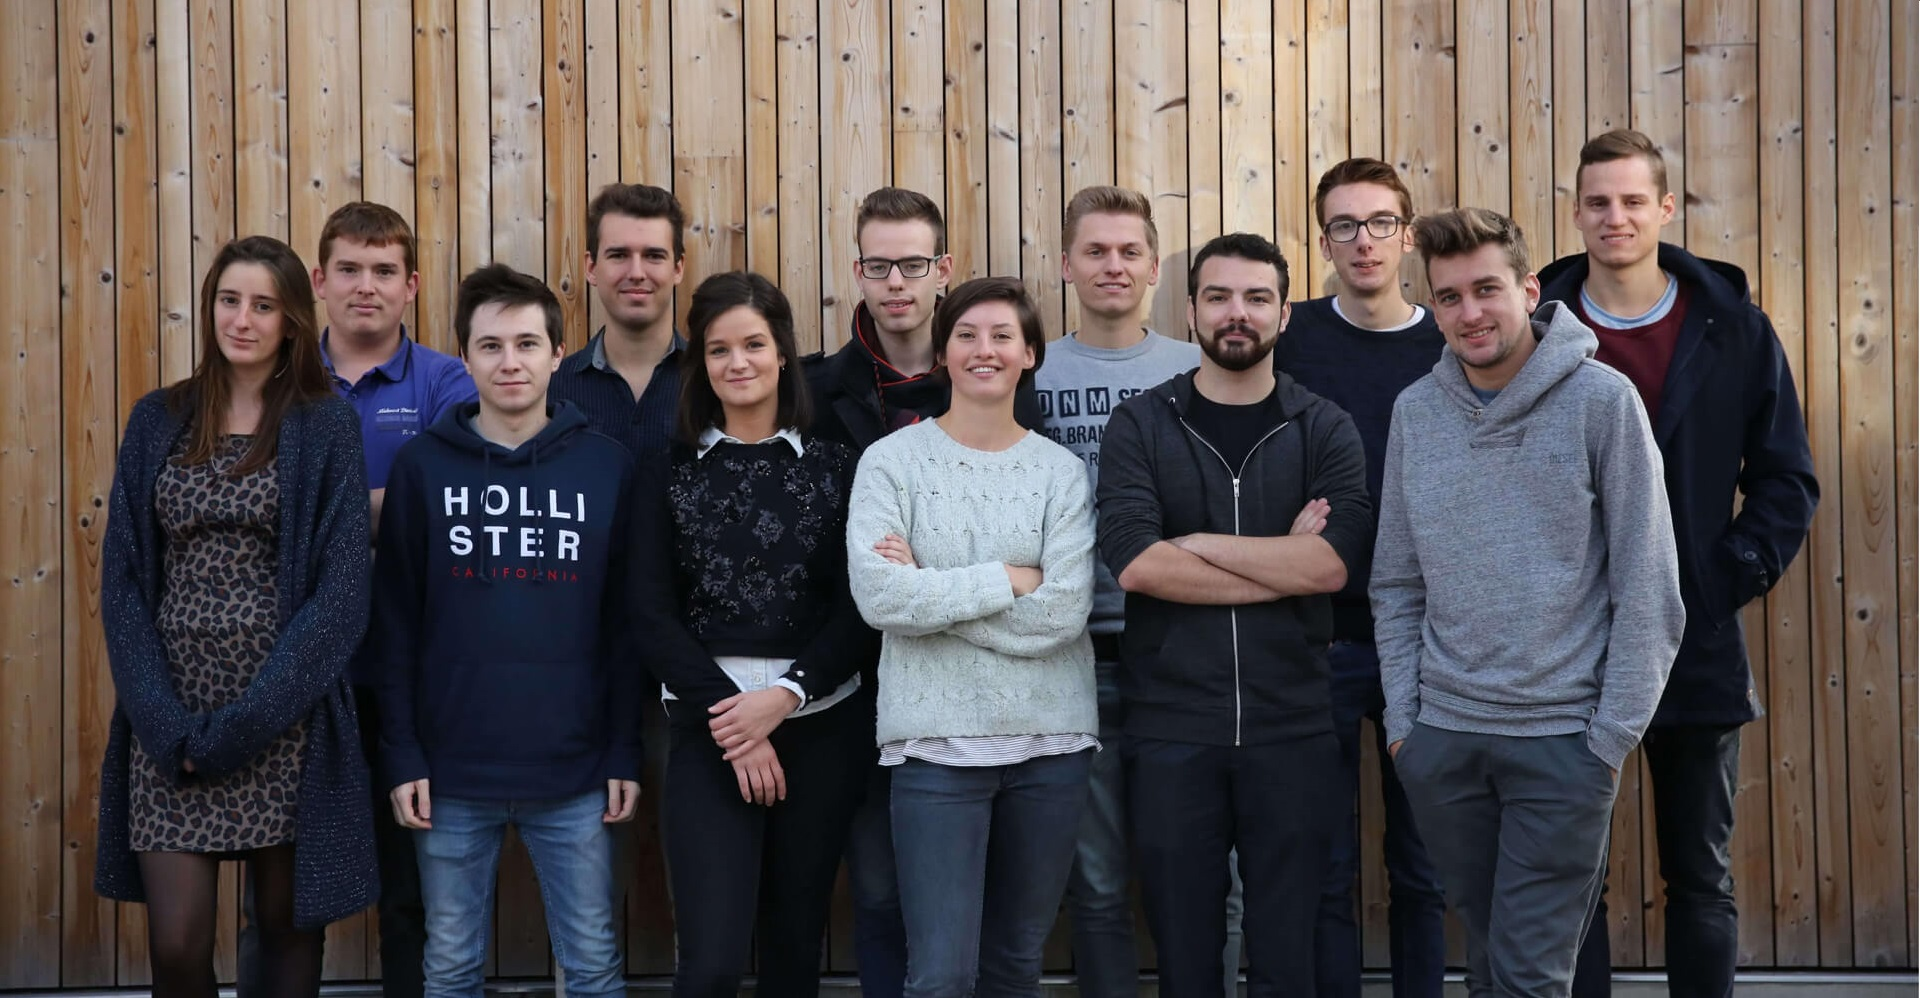
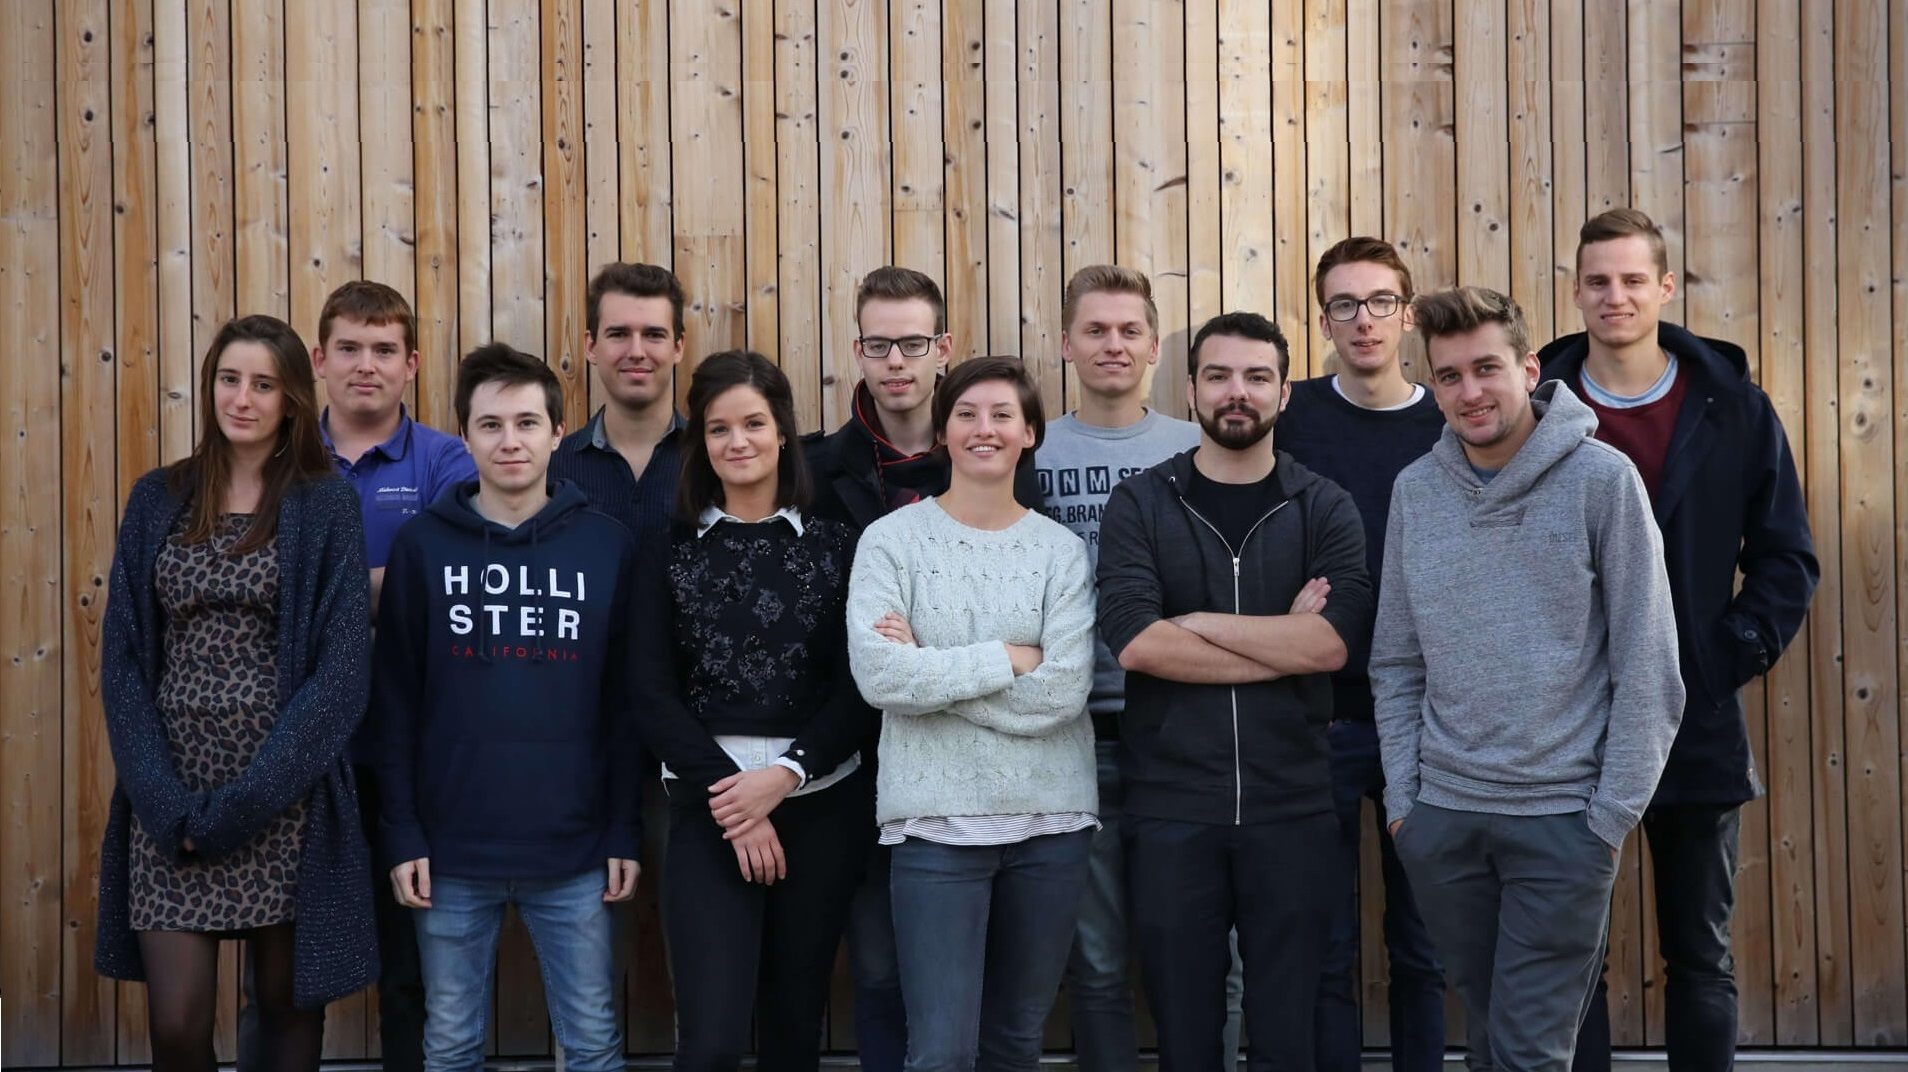
panel scrollfix and navscroll fix

diff --git a/public/css/style.min.css b/public/css/style.min.css
@@ -1,1 +1,1 @@
-.header,.logo,.logo img{z-index:999}.hamburger-menu,.header{top:0;position:absolute}h1,nav ul li a{color:#fff;text-transform:uppercase;letter-spacing:2px}nav ul li a{text-decoration:none;font-family:Lato,sans-serif;font-weight:300;font-size:1.6rem}.header{left:0;background:0 0;height:50px;width:100%;margin-top:20px}.logo{margin-left:5%}.logo img{height:100%;width:37px}.hamburger-menu{right:0;height:100%;width:50px;background-color:transparent;z-index:9999;cursor:pointer;padding-right:6%}.hamburger-menu .cd-menu-text{color:#fff;font-weight:700;display:none}.hamburger-menu .hamburger-menu-icon{display:inline-block;position:absolute;left:50%;top:50%;bottom:auto;right:auto;-ms-transform:translateX(-50%) translateY(-50%);transform:translateX(-50%) translateY(-50%);width:28px;height:3px;background-color:#fff;transition:background-color .3s}.hamburger-menu .hamburger-menu-icon::before,.hamburger-menu .hamburger-menu-icon:after{content:"";width:100%;height:100%;position:absolute;background-color:#fff;right:0;transition:transform .3s,top .3s,background-color 0s}.hamburger-menu .hamburger-menu-icon::before{top:-8px}.hamburger-menu .hamburger-menu-icon::after{top:8px}.hamburger-menu .hamburger-menu-icon.is-clicked{background-color:rgba(255,255,255,0)}.hamburger-menu .hamburger-menu-icon.is-clicked::after,.hamburger-menu .hamburger-menu-icon.is-clicked::before{background-color:#fff}.hamburger-menu .hamburger-menu-icon.is-clicked::before{top:0;-ms-transform:rotate(135deg);transform:rotate(135deg)}.hamburger-menu .hamburger-menu-icon.is-clicked::after{top:0;-ms-transform:rotate(225deg);transform:rotate(225deg)}.navigation{position:fixed;left:0;top:0;height:100%;width:100%;background:0 0;z-index:2;text-align:center;-webkit-backface-visibility:hidden;backface-visibility:hidden;overflow:auto;-webkit-overflow-scrolling:touch;-ms-transform:translateY(-100%);transform:translateY(-100%);transition-property:transform;transition-duration:.4s}.navigation ul{margin-top:10vh;padding-top:5vh}.navigation li{font-weight:300;margin:.2em 0;font-size:1.9rem;padding-top:1vh;padding-bottom:1vh}.navigation a{display:inline-block;padding:.4em 1em;border-radius:.25em;transition:background .2s}.navigation.is-visible{-ms-transform:translateY(0);transform:translateY(0);background-color:#22242a;z-index:2;position:fixed;-ms-flex-direction:column;flex-direction:column;display:-ms-flexbox;display:flex;-ms-flex-pack:center;justify-content:center;-ms-flex-align:center;align-items:center}@media (min-width:768px){.header.is-fixed,.header.menu-is-open{background-color:transparent}.navigation{position:fixed;top:50%;bottom:auto;-ms-transform:translateY(-50%);transform:translateY(-50%);margin-right:75px;text-align:right;display:block;height:auto;padding:0}.navigation li{display:inline-block;margin-left:.9em;margin-right:.9em;font-weight:300;font-size:1rem;letter-spacing:2px}.navigation li:last-child{margin-right:75px}.navigation a{display:inline-block;color:#fff;text-transform:uppercase;font-weight:400;padding:0}.logo{margin-left:75px}.logo img{width:50px;padding-top:0;height:100%}.header{transition:background-color .3s;-ms-transform:translate3d(0,0,0);transform:translate3d(0,0,0);-webkit-backface-visibility:hidden;backface-visibility:hidden;height:75px;margin-top:50px}.header.is-fixed{position:fixed;top:-80px;transition:transform .3s}.header.is-visible{-ms-transform:translate3d(0,100%,0);transform:translate3d(0,100%,0)}.hamburger-menu{display:none}nav ul li a{font-size:.8rem}}@media only screen and (min-width:1170px){.header.is-fixed,.header.menu-is-open{background-color:transparent}.header{transition:background-color .3s;-ms-transform:translate3d(0,0,0);transform:translate3d(0,0,0);-webkit-backface-visibility:hidden;backface-visibility:hidden;height:75px}.header.is-fixed{position:fixed;top:-80px;transition:transform .3s}.header.is-visible{-ms-transform:translate3d(0,100%,0);transform:translate3d(0,100%,0)}ul li:hover{transition:linear .2s;-ms-transform:scale(.9);transform:scale(1.3)}}.wrap-back{background-image:url(../img/back.jpg);position:relative;height:100vh;width:100vw;background-position:center center;background-size:cover}.wb-aptolist,.wb-doktercollemont,.wb-ecards,.wb-knowledgeflow,.wb-lcie,.wb-weareimd{background-image:url(../img/projects.jpg)}#teamBackground{background-image:url(../img/home.jpg)}#procedureBackground{background-image:url(../img/procedure.png)}.overlay{position:absolute;height:100%;width:100%;background-color:#000;opacity:.5;z-index:9}.designosource img{width:140px;height:auto}h1{font-family:Lato,sans-serif;font-size:2rem;font-weight:300;margin-top:10px;margin-bottom:35px}.wrap-buttons{display:-ms-flexbox;display:flex}.btn-case,.btn-contact,.btn-website{letter-spacing:2px;font-weight:400;font-size:10px;margin-top:0;z-index:99;display:inline-block;line-height:40px;padding:0 14px;height:40px;position:relative;transition:all .3s ease 0s;text-decoration:none;font-family:Lato;text-transform:uppercase;font-style:normal;cursor:pointer}.wrap-buttons a{text-decoration:none}.btn-case{background:none;border:1px solid #FFF;color:#FFF;border-width:2px!important;border-style:solid!important;border-radius:3px;margin-right:15px}.btn-contact{background:none;border:1px solid #00FFCB;color:#00FFCB;border-width:2px!important;border-style:solid!important;border-radius:3px;margin-right:15px}.btn-contact:hover{color:#fff}.btn-case:hover{color:#000;background-color:#fff}.btn-website{background:#fff;border:1px solid #FFF;color:#000;border-width:2px!important;border-style:solid!important;border-radius:3px}.mail,.type-wrap{font-weight:300;font-family:Lato,sans-serif;letter-spacing:1px}.header-image-project,.image-scroll{background-position:center center;background-size:cover}.btn-website:hover{color:#fff;background-color:#000;border:1px solid #000}.scroll-btn{position:absolute;bottom:0;right:0;margin-bottom:20px;margin-right:6%;width:44px;height:44px;border-radius:2px;display:-ms-flexbox;display:flex;-ms-flex-pack:center;justify-content:center;-ms-flex-align:center;align-items:center;cursor:pointer;transition:all .2s ease-in-out;-webkit-transition:all .2s ease-in-out;z-index:999}.image-scroll{background-image:url(../img/arrow.svg);height:100%;width:100%}.image-scroll:hover{background-image:url(../img/arrowGreen.svg);transition:all .4s linear;-webkit-transition:all .4s linear}@media (min-width:768px){.wrap-panel-content{margin-left:75px}#panel1Background,#panel4Background{background-image:url(../img/test1.gif)}#panel2Background,#panel5Background{background-image:url(../img/test2.gif)}#panel3Background,#panel6Background{background-image:url(../img/test3.gif)}.scroll-btn{margin-right:75px;margin-bottom:60px}}.wrap-contact{width:100vw;height:100vh;background-color:#000}.wrap-contact-content{position:absolute;bottom:0;left:0;margin-bottom:60px;margin-left:5%;width:100%;z-index:99}.border-mail{border:2px solid #fff;padding:25px;width:300px;text-align:center;margin-top:50px;margin-bottom:35px;border-radius:3px}.mail{color:#fff;font-size:1.6rem}.type-wrap{color:#fff;font-size:2rem;width:75%}.typed-cursor{opacity:1;font-weight:100;animation:blink .7s infinite}@-keyframes blink{0%,100%{opacity:1}50%{opacity:0}}.header-image-project{position:relative;width:100vw;height:60vh;background-image:url(../img/projects.jpg)}.wrap-project{position:relative;display:-ms-flexbox;display:flex;-ms-flex-direction:column;flex-direction:column;-ms-flex-align:center;align-items:center;-ms-flex-pack:center;justify-content:center;background-color:#F2F2F2;padding-left:100px;padding-right:100px;padding-bottom:100px}.wrap-project-content{width:100%;height:auto;background-color:#fff;border-radius:2px;margin-top:-125px;z-index:999;box-shadow:0 3px 6px 0 #c8c8c8}.title-project{font-family:Lato,sans-serif;font-weight:400;color:#323232;letter-spacing:1px;font-size:1.8rem;text-transform:uppercase;padding:75px 150px}.text-project,.wrap-btn-project{padding-left:150px;padding-right:150px}.text-project{font-family:Lato,sans-serif;font-weight:300;color:#323232;letter-spacing:1px;line-height:2em;padding-bottom:50px}.wrap-btn-project{padding-bottom:75px}.wrap-btn-project a{text-decoration:none}.btn-project{font-family:Lato;text-transform:uppercase;letter-spacing:2px;font-weight:400;font-style:normal;font-size:10px;background:none;border:1px solid #323232;color:#323232;border-width:2px!important;border-style:solid!important;cursor:pointer;display:inline-block;line-height:40px;padding:0 14px;height:40px;position:relative;transition:all .3s ease 0s;border-radius:3px;z-index:999}.btn-project:hover{color:#fff;background-color:#323232}.fp-tableCell{vertical-align:top}.wrap-backProject{height:75vh;width:100vw;background-size:cover;display:block;position:relative;background-position:top;vertical-align:top}.wrap-panel-content{position:absolute;bottom:0;left:0;margin-bottom:20px;margin-left:5%;z-index:99}.fp-tableCell>p{padding-top:15px;width:70%;font-size:1.2em;line-height:27px;display:block;margin-left:auto;margin-right:auto;font-weight:600}#projectBackground{background-color:#fff}.overlayProject{position:absolute;height:75vh;width:100vw;background-color:#000;opacity:.5;z-index:9}#projectHeader{margin-left:20%;margin-right:20%}@media (min-width:768px){.fp-tableCell>p{padding-top:25px;width:60%;font-size:1.3em;line-height:27px;display:block;margin-left:auto;margin-right:auto}.wrap-panel-content{position:absolute;bottom:0;left:0;margin-bottom:60px;margin-left:75px;z-index:99}}#team h1 span{color:#00FFCB}
+.header,.logo,.logo img{z-index:999}.hamburger-menu,.header{top:0;position:absolute}h1,nav ul li a{color:#fff;text-transform:uppercase;letter-spacing:2px}nav ul li a{text-decoration:none;font-family:Lato,sans-serif;font-weight:300;font-size:1.6rem;overflow:hidden}.header{left:0;background:0 0;height:50px;width:100%;margin-top:20px}.logo{margin-left:5%}.logo img{height:100%;width:37px}.hamburger-menu{right:0;height:100%;width:50px;background-color:transparent;z-index:9999;cursor:pointer;padding-right:6%}.hamburger-menu .cd-menu-text{color:#fff;font-weight:700;display:none}.hamburger-menu .hamburger-menu-icon{display:inline-block;position:absolute;left:50%;top:50%;bottom:auto;right:auto;-ms-transform:translateX(-50%) translateY(-50%);transform:translateX(-50%) translateY(-50%);width:28px;height:3px;background-color:#fff;transition:background-color .3s}.hamburger-menu .hamburger-menu-icon::before,.hamburger-menu .hamburger-menu-icon:after{content:"";width:100%;height:100%;position:absolute;background-color:#fff;right:0;transition:transform .3s,top .3s,background-color 0s}.hamburger-menu .hamburger-menu-icon::before{top:-8px}.hamburger-menu .hamburger-menu-icon::after{top:8px}.hamburger-menu .hamburger-menu-icon.is-clicked{background-color:rgba(255,255,255,0)}.hamburger-menu .hamburger-menu-icon.is-clicked::after,.hamburger-menu .hamburger-menu-icon.is-clicked::before{background-color:#fff}.hamburger-menu .hamburger-menu-icon.is-clicked::before{top:0;-ms-transform:rotate(135deg);transform:rotate(135deg)}.hamburger-menu .hamburger-menu-icon.is-clicked::after{top:0;-ms-transform:rotate(225deg);transform:rotate(225deg)}.navigation{position:fixed;left:0;top:0;height:100%;width:100%;background:0 0;z-index:2;text-align:center;-webkit-backface-visibility:hidden;backface-visibility:hidden;overflow:auto;-webkit-overflow-scrolling:touch;-ms-transform:translateY(-100%);transform:translateY(-100%);transition-property:transform;transition-duration:.4s}.navigation ul{margin-top:10vh;padding-top:5vh}.navigation li{font-weight:300;margin:.2em 0;font-size:1.9rem;padding-top:1vh;padding-bottom:1vh}.navigation a{display:inline-block;padding:.4em 1em;border-radius:.25em;transition:background .2s}.navigation.is-visible{-ms-transform:translateY(0);transform:translateY(0);background-color:#22242a;z-index:2;position:fixed;-ms-flex-direction:column;flex-direction:column;display:-ms-flexbox;display:flex;-ms-flex-pack:center;justify-content:center;-ms-flex-align:center;align-items:center}@media (min-width:768px){.header.is-fixed,.header.menu-is-open{background-color:transparent}.navigation{position:fixed;top:50%;bottom:auto;-ms-transform:translateY(-50%);transform:translateY(-50%);margin-right:75px;text-align:right;display:block;height:auto;padding:0}.navigation li{display:inline-block;margin-left:.9em;margin-right:.9em;font-weight:300;font-size:1rem;letter-spacing:2px}.navigation li:last-child{margin-right:75px}.navigation a{display:inline-block;color:#fff;text-transform:uppercase;font-weight:400;padding:0}.logo{margin-left:75px}.logo img{width:50px;padding-top:0;height:100%}.header{transition:background-color .3s;-ms-transform:translate3d(0,0,0);transform:translate3d(0,0,0);-webkit-backface-visibility:hidden;backface-visibility:hidden;height:75px;margin-top:50px}.header.is-fixed{position:fixed;top:-80px;transition:transform .3s}.header.is-visible{-ms-transform:translate3d(0,100%,0);transform:translate3d(0,100%,0)}.hamburger-menu{display:none}nav ul li a{font-size:.8rem}}@media only screen and (min-width:1170px){.header.is-fixed,.header.menu-is-open{background-color:transparent}.header{transition:background-color .3s;-ms-transform:translate3d(0,0,0);transform:translate3d(0,0,0);-webkit-backface-visibility:hidden;backface-visibility:hidden;height:75px}.header.is-fixed{position:fixed;top:-80px;transition:transform .3s}.header.is-visible{-ms-transform:translate3d(0,100%,0);transform:translate3d(0,100%,0)}ul li:hover{transition:linear .2s;-ms-transform:scale(1.2);transform:scale(1.2)}}body{overflow-y:hidden}.wrap-back{background-image:url(../img/back.jpg);position:relative;height:100vh;width:100vw;background-position:center center;background-size:cover}.wb-aptolist,.wb-doktercollemont,.wb-ecards,.wb-knowledgeflow,.wb-lcie,.wb-weareimd{background-image:url(../img/projects.jpg)}#teamBackground{background-image:url(../img/groepsfoto.jpg)}#procedureBackground{background-image:url(../img/procedure.png)}.overlay{position:absolute;height:100%;width:100%;background-color:#000;opacity:.5;z-index:9}.designosource img{width:140px;height:auto}h1{font-family:Lato,sans-serif;font-size:2rem;font-weight:300;margin-top:10px;margin-bottom:35px}.wrap-buttons{display:-ms-flexbox;display:flex}.btn-case,.btn-contact,.btn-website{letter-spacing:2px;font-weight:400;font-size:10px;margin-top:0;z-index:99;display:inline-block;line-height:40px;padding:0 14px;height:40px;position:relative;transition:all .3s ease 0s;text-decoration:none;font-family:Lato;text-transform:uppercase;font-style:normal;cursor:pointer}.wrap-buttons a{text-decoration:none}.btn-case{background:none;border:1px solid #FFF;color:#FFF;border-width:2px!important;border-style:solid!important;border-radius:3px;margin-right:15px}.btn-contact{background:none;border:1px solid #00FFCB;color:#00FFCB;border-width:2px!important;border-style:solid!important;border-radius:3px;margin-right:15px}.btn-contact:hover{color:#fff}.btn-case:hover{color:#000;background-color:#fff}.btn-website{background:#fff;border:1px solid #FFF;color:#000;border-width:2px!important;border-style:solid!important;border-radius:3px}.mail,.type-wrap{font-weight:300;font-family:Lato,sans-serif;letter-spacing:1px}.header-image-project,.image-scroll{background-position:center center;background-size:cover}.btn-website:hover{color:#fff;background-color:#000;border:1px solid #000}.scroll-btn{position:absolute;bottom:0;right:0;margin-bottom:20px;margin-right:6%;width:44px;height:44px;border-radius:2px;display:-ms-flexbox;display:flex;-ms-flex-pack:center;justify-content:center;-ms-flex-align:center;align-items:center;cursor:pointer;transition:all .2s ease-in-out;-webkit-transition:all .2s ease-in-out;z-index:999}.image-scroll{background-image:url(../img/arrow.svg);height:100%;width:100%}.image-scroll:hover{background-image:url(../img/arrowGreen.svg);transition:all .4s linear;-webkit-transition:all .4s linear}@media (min-width:768px){body{overflow-y:hidden}.wrap-panel-content{margin-left:75px}#panel1Background,#panel4Background{background-image:url(../img/test1.gif)}#panel2Background,#panel5Background{background-image:url(../img/test2.gif)}#panel3Background,#panel6Background{background-image:url(../img/test3.gif)}.scroll-btn{margin-right:75px;margin-bottom:60px}}.wrap-contact{width:100vw;height:100vh;background-color:#000}.wrap-contact-content{position:absolute;bottom:0;left:0;margin-bottom:60px;margin-left:5%;width:100%;z-index:99}.border-mail{border:2px solid #fff;padding:25px;width:300px;text-align:center;margin-top:50px;margin-bottom:35px;border-radius:3px}.mail{color:#fff;font-size:1.6rem}.type-wrap{color:#fff;font-size:2rem;width:75%}.typed-cursor{opacity:1;font-weight:100;animation:blink .7s infinite}@-keyframes blink{0%,100%{opacity:1}50%{opacity:0}}.header-image-project{position:relative;width:100vw;height:60vh;background-image:url(../img/projects.jpg)}.wrap-project{position:relative;display:-ms-flexbox;display:flex;-ms-flex-direction:column;flex-direction:column;-ms-flex-align:center;align-items:center;-ms-flex-pack:center;justify-content:center;background-color:#F2F2F2;padding-left:100px;padding-right:100px;padding-bottom:100px}.wrap-project-content{width:100%;height:auto;background-color:#fff;border-radius:2px;margin-top:-125px;z-index:999;box-shadow:0 3px 6px 0 #c8c8c8}.title-project{font-family:Lato,sans-serif;font-weight:400;color:#323232;letter-spacing:1px;font-size:1.8rem;text-transform:uppercase;padding:75px 150px}.text-project,.wrap-btn-project{padding-left:150px;padding-right:150px}.text-project{font-family:Lato,sans-serif;font-weight:300;color:#323232;letter-spacing:1px;line-height:2em;padding-bottom:50px}.wrap-btn-project{padding-bottom:75px}.wrap-btn-project a{text-decoration:none}.btn-project{font-family:Lato;text-transform:uppercase;letter-spacing:2px;font-weight:400;font-style:normal;font-size:10px;background:none;border:1px solid #323232;color:#323232;border-width:2px!important;border-style:solid!important;cursor:pointer;display:inline-block;line-height:40px;padding:0 14px;height:40px;position:relative;transition:all .3s ease 0s;border-radius:3px;z-index:999}.btn-project:hover{color:#fff;background-color:#323232}.fp-tableCell{vertical-align:top}.wrap-backProject{height:75vh;width:100vw;background-size:cover;display:block;position:relative;background-position:top;vertical-align:top}.wrap-panel-content{position:absolute;bottom:0;left:0;margin-bottom:20px;margin-left:5%;z-index:99}.fp-tableCell>p{padding-top:15px;width:70%;font-size:1.2em;line-height:27px;display:block;margin-left:auto;margin-right:auto;font-weight:600}#projectBackground{background-color:#fff}.overlayProject{position:absolute;height:75vh;width:100vw;background-color:#000;opacity:.5;z-index:9}#projectHeader{margin-left:20%;margin-right:20%}@media (min-width:768px){.fp-tableCell>p{padding-top:25px;width:60%;font-size:1.3em;line-height:27px;display:block;margin-left:auto;margin-right:auto}.wrap-panel-content{position:absolute;bottom:0;left:0;margin-bottom:60px;margin-left:75px;z-index:99}}#team h1 span{color:#00FFCB}

diff --git a/assets/sass/modules/_navigation.scss b/assets/sass/modules/_navigation.scss
@@ -6,6 +6,8 @@ nav ul li a {
   letter-spacing: 2px;
   font-weight: 300;
   font-size: 1.6rem;
+  overflow: hidden;
+
 }
 
 .header {
@@ -318,11 +320,11 @@ nav ul li a {
      -ms-transition: linear 0.2s ;
      -o-transition: linear 0.2s ;
      transition: linear 0.2s;
-     -webkit-transform: scale(0.9);
-     -moz-transform: scale(0.9);
-     -ms-transform: scale(0.9);
-     -o-transform: scale(0.9);
-     transform: scale(1.3);
+     -webkit-transform: scale(1.2);
+     -moz-transform: scale(1.2);
+     -ms-transform: scale(1.2);
+     -o-transform: scale(1.2);
+     transform: scale(1.2);
   }
 }
 

diff --git a/assets/sass/modules/_panel.scss b/assets/sass/modules/_panel.scss
@@ -1,3 +1,6 @@
+body{
+    overflow-y: hidden;
+}
 .wrap-back
 {
     background-image: url("../img/back.jpg");
@@ -40,7 +43,7 @@
 
 #teamBackground
 {
-    background-image: url("../img/home.jpg");
+    background-image: url("../img/groepsfoto.jpg");
 }
 
 #procedureBackground
@@ -237,6 +240,9 @@ h1
 
 @media (min-width: 768px)
 {
+    body{
+        overflow-y: hidden;
+    }
     .wrap-panel-content
     {
         margin-left: 75px;
